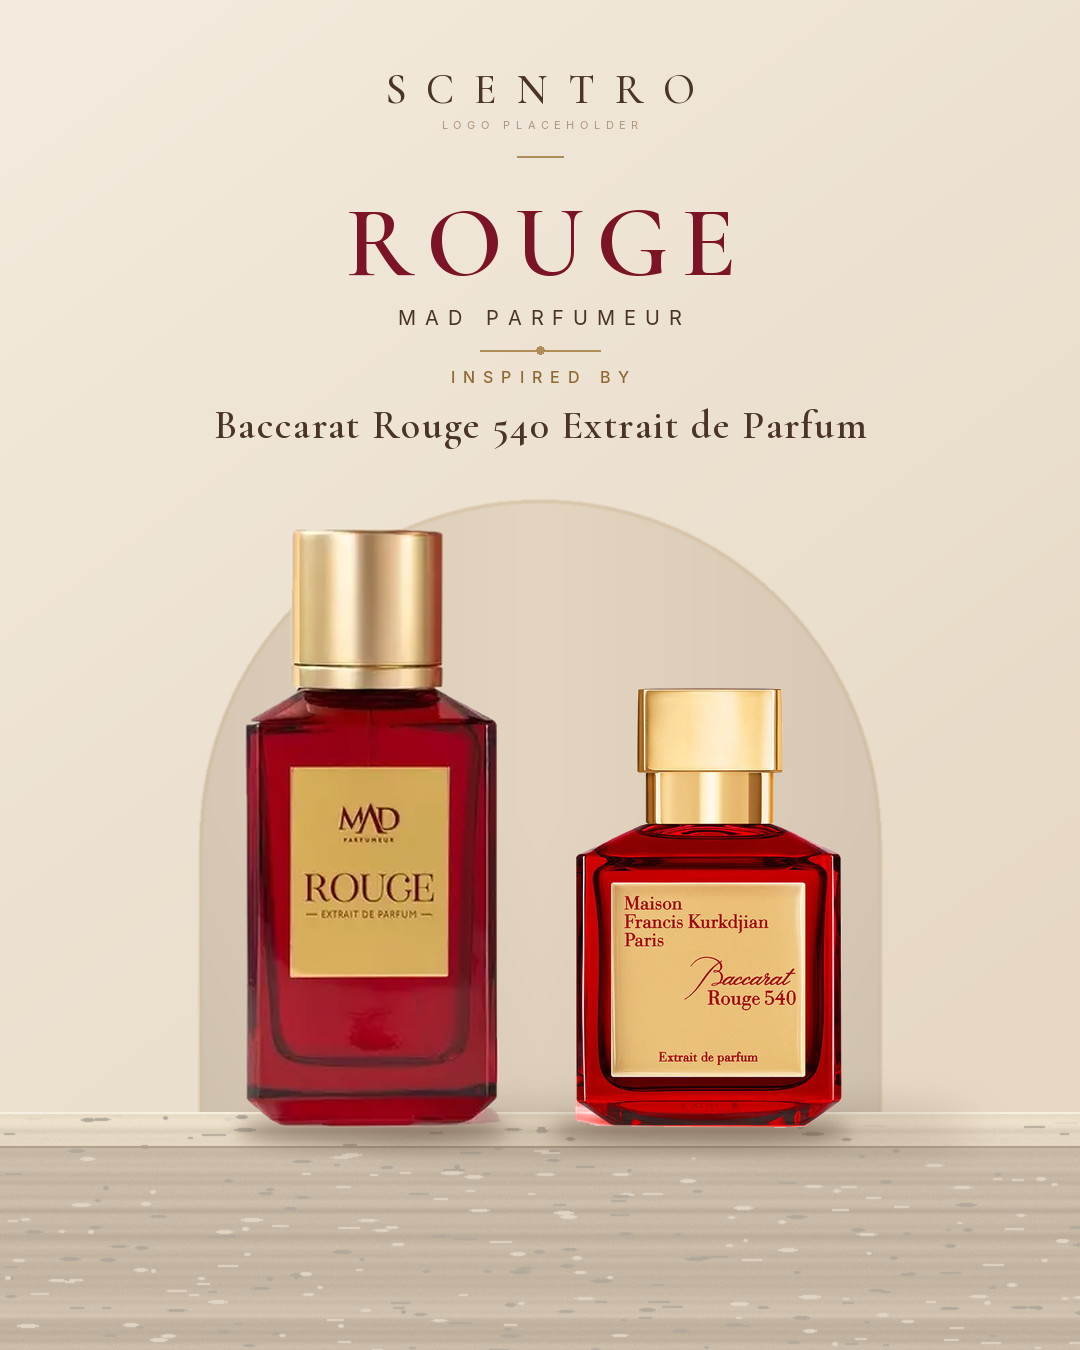
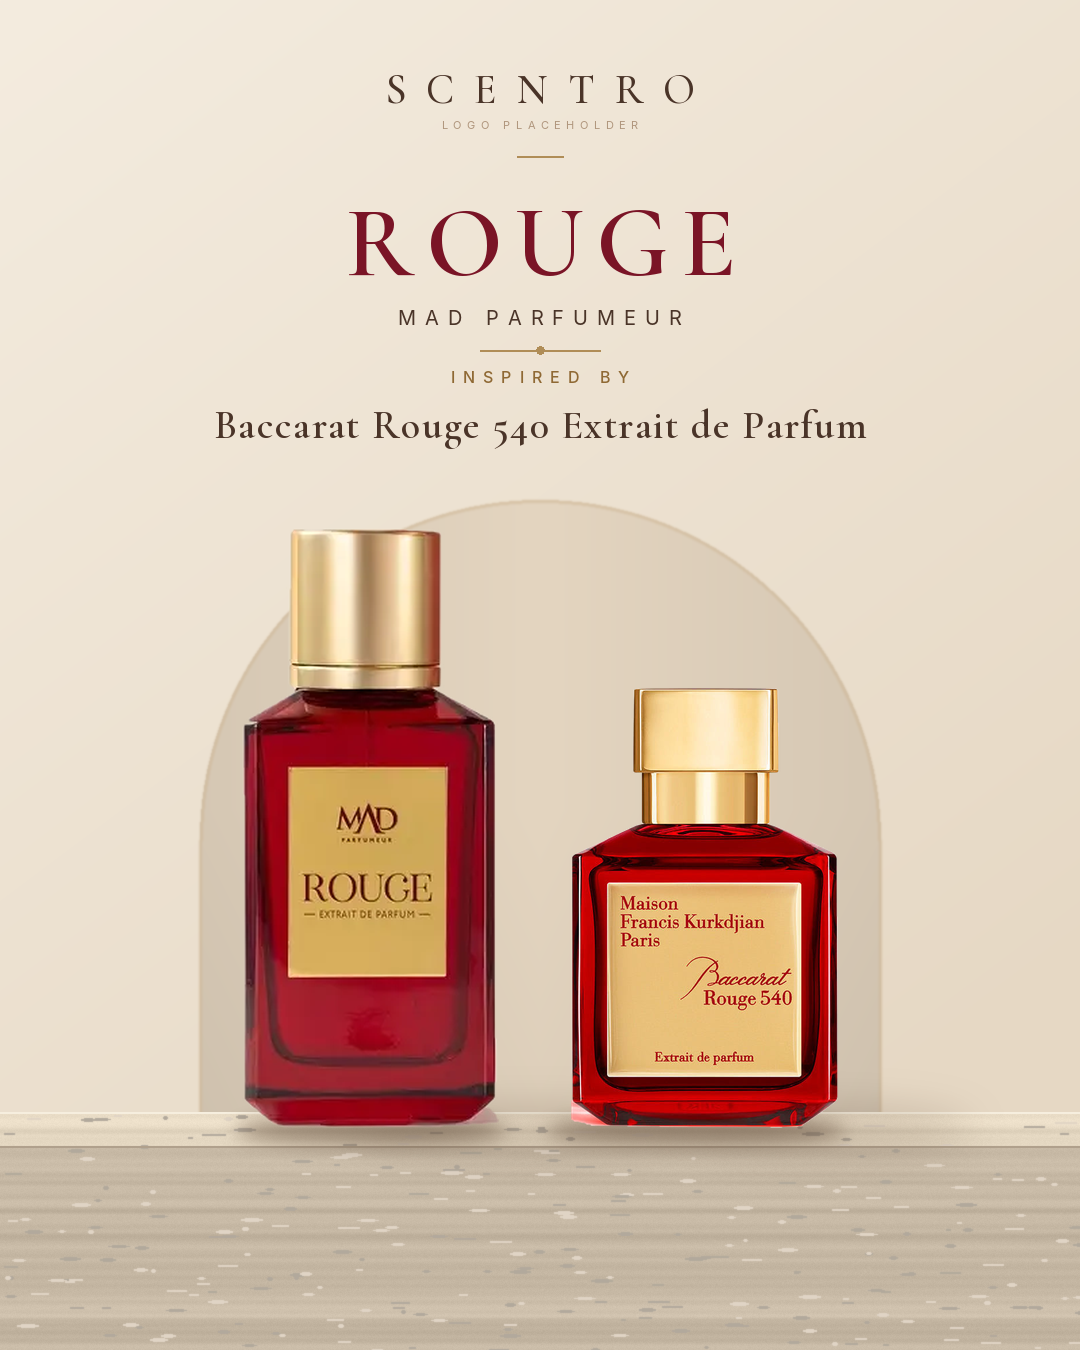
Add slides 2-6 (Treasure, Marjorie, Effect, Dreamlight, Forza) and sourced assets
Claude-Session: https://claude.ai/code/session_01UApyk7Kdwc7MEVpfJtnJsr

diff --git a/scentro/build_slide.py b/scentro/build_slide.py
@@ -7,11 +7,18 @@ INTER = '/usr/share/fonts/opentype/inter/Inter-Regular.otf'
 INTER_M = '/usr/share/fonts/opentype/inter/Inter-Medium.otf'
 rng = np.random.default_rng(7)
 
+def S(title, mad, orig, inspired, title_rgb, bg_a, bg_b, arch_rgb, mad_h=600, orig_h=440, sink=0, name_size=46):
+    return dict(title=title, mad=f'assets/cutouts/{mad}.png', orig=f'assets/cutouts/{orig}.png', inspired=inspired,
+                title_rgb=title_rgb, bg_a=bg_a, bg_b=bg_b, arch_rgb=arch_rgb, mad_h=mad_h, orig_h=orig_h, sink=sink,
+                name_size=name_size, out=f'output/slide{{n}}_{title.lower()}.png')
+
 SLIDES = {
- 1: dict(title='ROUGE', mad='assets/cutouts/mad_rouge.png', orig='assets/cutouts/brx540_extrait.png',
-         inspired='Baccarat Rouge 540 Extrait de Parfum', title_rgb=(122, 20, 38),
-         tint=(0, 0, 0),  # per-slide background tint (r,g,b offsets)
-         out='output/slide1_rouge.png'),
+ 1: S('ROUGE', 'mad_rouge', 'brx540_extrait', 'Baccarat Rouge 540 Extrait de Parfum', (122, 20, 38), (244, 236, 223), (230, 216, 196), (228, 213, 192), name_size=40),
+ 2: S('TREASURE', 'mad_treasure', 'naxos', 'Naxos', (142, 98, 34), (245, 236, 218), (232, 214, 184), (230, 212, 182), mad_h=590, orig_h=470),
+ 3: S('MARJORIE', 'mad_marjorie', 'guidance', 'Guidance', (148, 86, 92), (246, 239, 230), (236, 220, 212), (232, 214, 205), mad_h=590, orig_h=360),
+ 4: S('EFFECT', 'mad_effect', 'side_effect', 'Side Effect', (104, 30, 38), (243, 234, 221), (228, 211, 193), (226, 207, 188), mad_h=600, orig_h=440),
+ 5: S('DREAMLIGHT', 'mad_dreamlight', 'attrape_reves', 'Attrape-Rêves', (126, 88, 130), (247, 241, 239), (235, 224, 231), (232, 218, 222), mad_h=540, orig_h=440),
+ 6: S('FORZA', 'mad_forza', 'alexandria_ii', 'Alexandria II', (106, 74, 42), (244, 236, 222), (229, 214, 190), (228, 211, 184), mad_h=500, orig_h=470),
 }
 
 def font(path, size, var=None):
@@ -27,21 +34,21 @@ def tracked(draw, cx, cy, text, f, fill, track):
     for c, w in zip(text, ws):
         draw.text((x, cy), c, font=f, fill=fill, anchor='lm'); x += w + track
 
-def background(tint):
+def background(a, b):
     yy, xx = np.mgrid[0:H, 0:W].astype(np.float32)
     t = np.clip((xx / W * 0.45 + yy / H * 0.75), 0, 1)[..., None]
-    a = np.array([244, 236, 223], np.float32); b = np.array([230, 216, 196], np.float32)
-    img = a * (1 - t) + b * t + np.array(tint, np.float32)
+    a = np.array(a, np.float32); b = np.array(b, np.float32)
+    img = a * (1 - t) + b * t
     return Image.fromarray(np.clip(img, 0, 255).astype(np.uint8)).convert('RGBA')
 
-def arch(img):
+def arch(img, base_rgb):
     cx, top, bot, R = 540, 500, 1115, 340
     m = Image.new('L', (W, H), 0); d = ImageDraw.Draw(m)
     d.ellipse((cx - R, top, cx + R, top + 2 * R), fill=255); d.rectangle((cx - R, top + R, cx + R, bot), fill=255)
     m = m.filter(ImageFilter.GaussianBlur(0.8))
     yy = np.linspace(0, 1, H, dtype=np.float32)[:, None]
     xx = np.linspace(-1, 1, W, dtype=np.float32)[None, :]
-    base = np.array([228, 213, 192], np.float32)
+    base = np.array(base_rgb, np.float32)
     shade = (1 - 0.10 * np.abs(xx) - 0.05 * np.clip((yy - 0.6) / 0.4, 0, 1))[..., None]
     fill = Image.fromarray(np.clip(base * shade * np.ones((H, W, 3), np.float32), 0, 255).astype(np.uint8)).convert('RGBA')
     img.paste(fill, (0, 0), m)
@@ -92,8 +99,8 @@ def place(img, path, cx, base_y, height, shadow_dx=26, shadow_w=1.0):
     return x, y, w
 
 def build(n):
-    s = SLIDES[n]
-    img = background(s['tint']); arch(img); travertine(img)
+    s = SLIDES[n]; s['out'] = s['out'].format(n=n)
+    img = background(s['bg_a'], s['bg_b']); arch(img, s['arch_rgb']); travertine(img)
     d = ImageDraw.Draw(img)
     brown = (74, 52, 40); gold = (176, 141, 87)
     # logo (placeholder wordmark until the real file is supplied)
@@ -101,16 +108,27 @@ def build(n):
     tracked(d, 540, 125, 'LOGO PLACEHOLDER', font(INTER, 11), (176, 150, 125), 5.5)
     d.line((517, 156, 563, 156), fill=gold, width=2)
     # title block
-    tracked(d, 540, 243, s['title'], font(CORM, 100, 'SemiBold'), s['title_rgb'], 12)
+    size = 100
+    while True:
+        tf = font(CORM, size, 'SemiBold'); tw = sum(d.textlength(c, font=tf) for c in s['title']) + (size * .12) * (len(s['title']) - 1)
+        if tw <= 720 or size < 50: break
+        size -= 2
+    tracked(d, 540, 243, s['title'], tf, s['title_rgb'], size * .12)
     tracked(d, 540, 317, 'MAD PARFUMEUR', font(INTER, 20), brown, 9)
     d.line((480, 350, 600, 350), fill=gold, width=2); d.ellipse((536, 346, 544, 354), fill=gold)
     # INSPIRED BY – darker champagne-gold, slightly heavier than draft for contrast
     tracked(d, 540, 377, 'INSPIRED BY', font(INTER_M, 16), (143, 105, 52), 8)
-    tracked(d, 540, 425, s['inspired'], font(CORM, 40, 'SemiBold'), brown, 1.5)
+    ns = s['name_size']
+    while sum(d.textlength(c, font=font(CORM, ns, 'SemiBold')) for c in s['inspired']) + 1.5 * len(s['inspired']) > 700: ns -= 2
+    tracked(d, 540, 425, s['inspired'], font(CORM, ns, 'SemiBold'), brown, 1.5)
     # bottles: MAD larger left, original smaller right, shared baseline on the ledge
-    base = 1128
-    place(img, s['mad'], 372, base, 600)
-    place(img, s['orig'], 700, base, 440, shadow_dx=14, shadow_w=0.6)
+    base = 1128; gap = 56
+    def dims(p, h):
+        im = Image.open(p); return round(im.width * h / im.height)
+    w1, w2 = dims(s['mad'], s['mad_h']), dims(s['orig'], s['orig_h'])
+    left = 540 - (w1 + gap + w2) / 2
+    place(img, s['mad'], left + w1 / 2, base, s['mad_h'])
+    place(img, s['orig'], left + w1 + gap + w2 / 2, base + s['sink'], s['orig_h'], shadow_dx=14, shadow_w=0.6)
     out = img.convert('RGB'); out.save(s['out'], optimize=True); print(s['out'], out.size)
 
 if __name__ == '__main__':

diff --git a/scentro/polycut.py b/scentro/polycut.py
@@ -1,0 +1,32 @@
+"""Hand-traced polygon cutouts for low-contrast bottles (bottle shape traced on the real photo; pixels are never redrawn)."""
+import numpy as np
+from PIL import Image, ImageDraw, ImageFilter
+def tx(pts, ox, oy, s): return [(ox + x / s, oy + y / s) for x, y in pts]
+def cut(src, dst, polys, circles=(), erode=1.0, overlay=None):
+    im = Image.open(src).convert('RGB'); S = 4
+    m = Image.new('L', (im.width * S, im.height * S), 0); d = ImageDraw.Draw(m)
+    for p in polys: d.polygon([(x * S, y * S) for x, y in p], fill=255)
+    for cx, cy, r in circles: d.ellipse(((cx - r) * S, (cy - r) * S, (cx + r) * S, (cy + r) * S), fill=255)
+    m = m.resize(im.size, Image.LANCZOS)
+    if erode: m = m.filter(ImageFilter.MinFilter(3)) if erode >= 1 else m
+    m = m.filter(ImageFilter.GaussianBlur(0.6))
+    if overlay:
+        o = im.copy(); ImageDraw.Draw(o).line([p for poly in polys for p in poly + [poly[0]]], fill=(0, 255, 0), width=1); o.save(overlay)
+    rgba = im.convert('RGBA'); rgba.putalpha(m)
+    bb = m.point(lambda v: 255 if v > 5 else 0).getbbox(); rgba.crop(bb).save(dst); print(dst, bb)
+
+def rr(x0, y0, x1, y1, r=6):
+    return [(x0 + r, y0), (x1 - r, y0), (x1, y0 + r), (x1, y1 - r), (x1 - r, y1), (x0 + r, y1), (x0, y1 - r), (x0, y0 + r)]
+
+if __name__ == '__main__':
+    A = 'assets/source/'; C = 'assets/cutouts/'
+    # Treasure: cap + rectangular gold body
+    cut(A + 'mad_treasure_original.webp', C + 'mad_treasure.png',
+        [rr(179, 192, 301, 320, 2), rr(128, 312, 351, 727, 7)], overlay='/tmp/crops/o_treasure.png')
+    # Naxos (grid scale .55, origin 200,0)
+    n = [(283,330),(262,340),(240,352),(205,395),(180,430),(171,480),(170,560),(172,650),(190,720),(215,785),(240,825),(290,832),(420,832),(448,800),(478,740),(500,690),(511,640),(511,470),(490,400),(450,355),(410,332),(412,290),(410,230),(408,180),(372,115),(350,92),(333,75),(316,92),(290,130),(277,180),(275,230),(278,290)]
+    cut(A + 'naxos_shoprescuespa.jpg', C + 'naxos.png', [tx(n, 200, 0, .55)], overlay='/tmp/crops/o_naxos.png', erode=0)
+    # Marjorie (grid scale 1.7, origin 270,100)
+    mj = [(215,205),(180,235),(150,285),(125,345),(105,420),(92,490),(100,560),(112,650),(125,730),(140,790),(158,808),(210,812),(300,812),(354,810),(369,791),(384,736),(399,680),(413,600),(421,520),(415,430),(400,340),(375,260),(335,215),(300,205)]
+    cut(A + 'mad_marjorie_original.webp', C + 'mad_marjorie.png', [tx(mj, 270, 100, 1.7), tx([(226,208),(222,185),(240,168),(268,168),(286,185),(290,208)],270,100,1.7)],
+        circles=[(270 + 255 / 1.7, 100 + 135 / 1.7, 85 / 1.7)], overlay='/tmp/crops/o_marj.png', erode=0)
